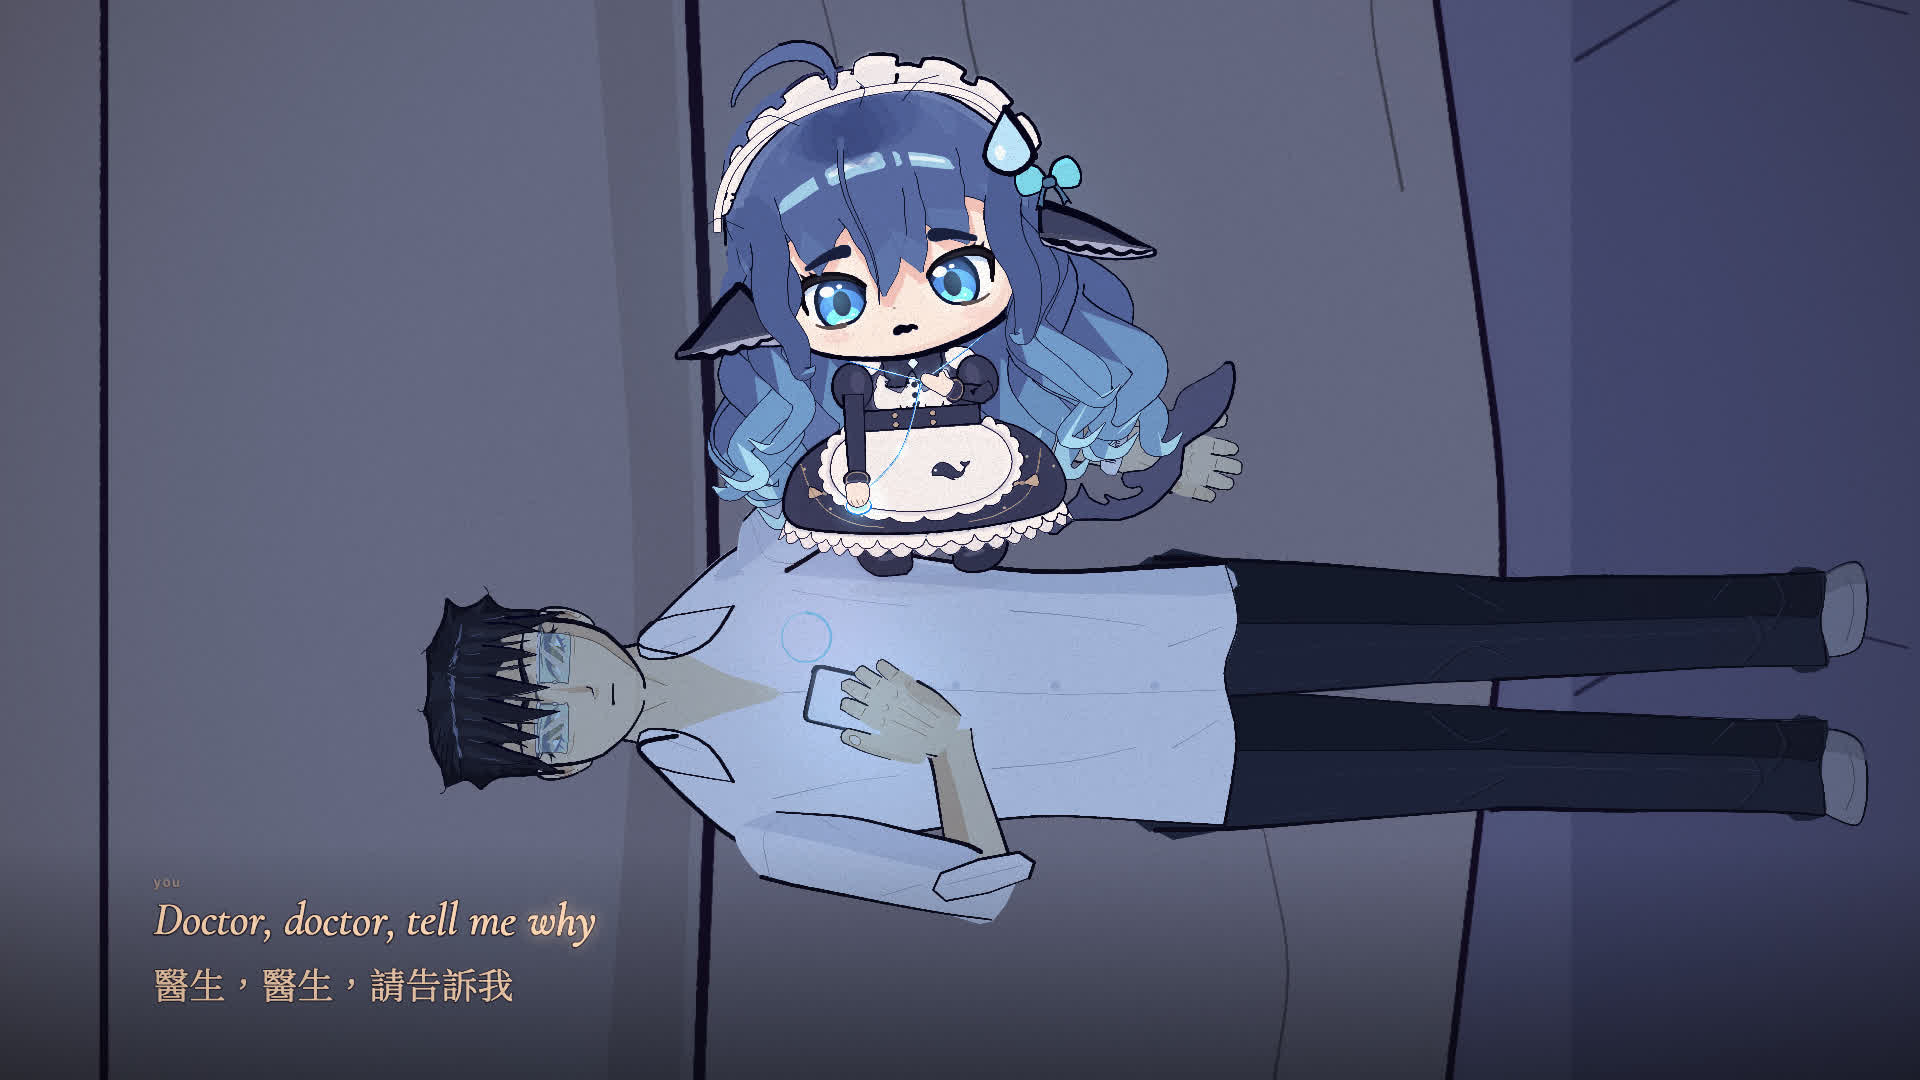
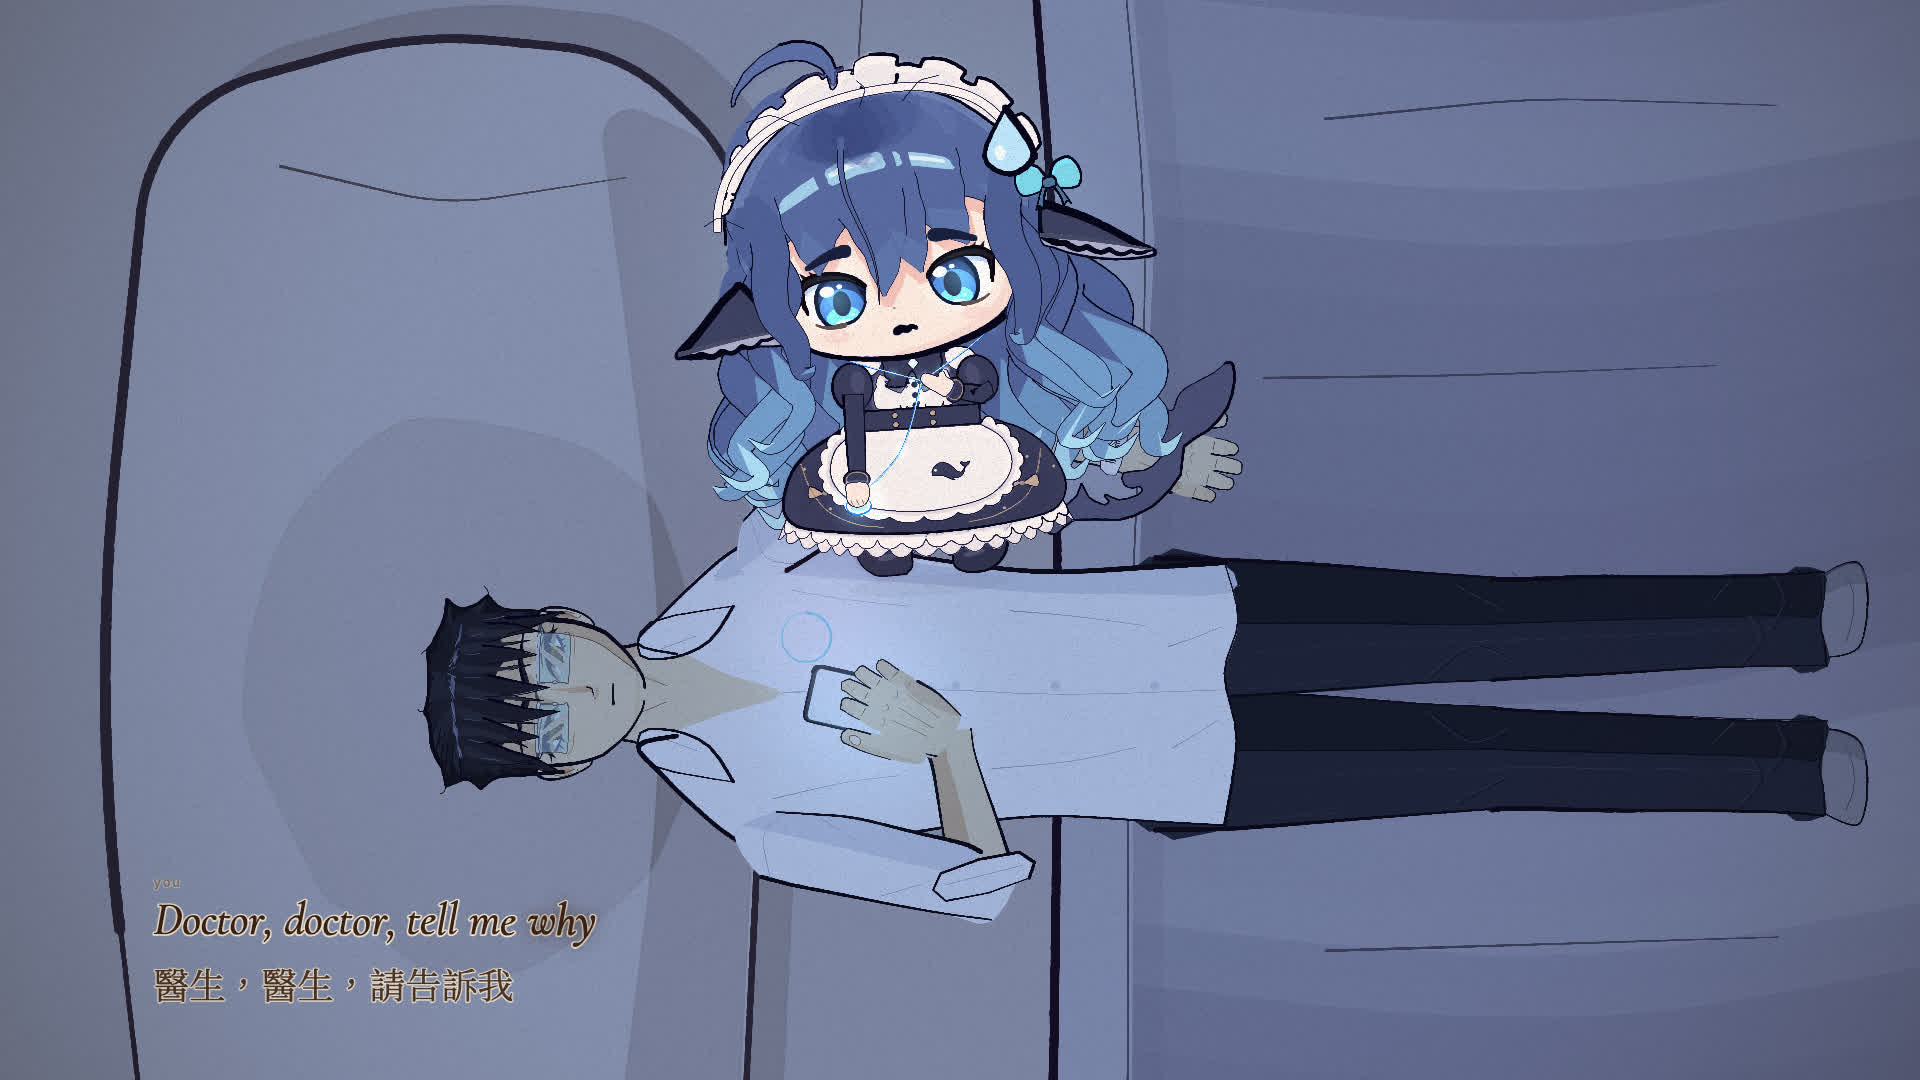
[review] G1 fix #2: real top-down bed under 03B/02G/03C (sheet, pillow, duvet), phone leaning on the pillow

diff --git a/film/src/scenes/s02_verse1.js b/film/src/scenes/s02_verse1.js
@@ -389,19 +389,18 @@
   // reads: 41.86-42.90 him and the phone on the pillow · 42.90-44.13 the finger, her nods · 44.16-44.65 the shake and the heart, the push
   // =============================================================================================================
   const G_HAND = 42.90;
-  const G_ROLL = -Math.PI / 2, G_SC = [406, 215, 470];                      // the camera rolls a quarter turn: pillow left, he lies across the frame; the phone's screen rect (screen px) for 02F's shrinking panel
+  const G_ROLL = -Math.PI / 2, G_SC = [544, 215, 470];                      // the camera rolls a quarter turn: pillow left, he lies across the frame; the phone's screen rect (screen px) for 02F's shrinking panel
   function s02g(t, lt, dur) {
     const k1 = kitEase.sine(seg(t, N3 - .05, T_END)), pushK = kitEase.expoIn(seg(t, N3 - .05, T_END)), zoom = lerp(1.3 + .06 * seg(lt, 0, dur), 2.05, pushK);
     const hd = [1150, 235], pw = [1500, 240];                                // head and phone in the surface's coordinates
-    const cx = lerp(1250, pw[0] + 10, k1), cy = lerp(666, pw[1] + 10, k1);
-    push(); resetMatrix(); translate(-W / 2, -H / 2); boilSeed('s02g sheet'); paint(rectPts(-60, -60, W + 120, H + 120), { wash: setRoomPal('dusk').sheet, ink: null }); pop();
+    const cx = lerp(1250, pw[0] + 10, k1), cy = lerp(560, pw[1] + 10, k1);
     kitCam(lt, [[0, cx, cy, zoom, G_ROLL]], { drift: 2 });
-    setSurface('bed', 'dusk', { res: 1.25 });
+    s02Bed(setRoomPal('dusk'), 1056, 640, 1760, 430, { cover: '#D2D9EC' });
     glow(pw[0], pw[1], 760, SET_C.cyan, .35);
     const f = himEmotions(t, [[T_G, 'tired'], [G_HAND, 'tired', { mouth: 'smile', browIn: -.5 }]], { take: .5 });
     const PN = setRoomPal('night');
     // side-lying: his head toward the pillow (screen left), face turned up the frame toward the phone, the body running to the right over the duvet
-    him(1080, 705, 34, { ...f, pose: 'sidelie', outfit: 'home', armR: 'finger', coverW: .78, coverD: .66, coverCol: PN.cover, sheetCol: PN.sheet, boilKey: 's02g him', seed: .4 });
+    him(1080, 705, 34, { ...f, pose: 'sidelie', outfit: 'home', armR: 'finger', coverW: .78, coverD: .66, coverCol: '#D2D9EC', sheetCol: mixCol(PN.sheet, '#FFFFFF', .4), boilKey: 's02g him', seed: .4 });
     const sh = t >= N3;
     setPillowPhone(pw[0], pw[1], 360, { rot: Math.PI / 2 - .1, k: .8 + .2 * pulse(t, 4), screen: S => {
       boilSeed('s02g glass'); setP(setBox(S.x, S.y, S.x + S.w, S.y + S.h), { wash: '#10285A', ink: null });
@@ -412,6 +411,34 @@
     } });
     camEnd();
     if (t > T_END - .14) kitFade(kitEase.sine(seg(t, T_END - .14, T_END)), '#0D1530');
+  }
+
+
+  // the bed from above, painted live in the (rolled) world: a washed sheet, one wide pillow under the head, and a duvet that rises in soft ridges
+  // below `hem` (world y). hx = the head's x, px0/px1 the pillow's extent. Head up in the world = pillow at the left once the camera is rolled.
+  function s02Bed(P, hx, px0, px1, hem, o = {}) {
+    const lt = mixCol(P.sheet, '#FFFFFF', .3), pil = mixCol(P.pillow, '#FFFFFF', .4), pl = mixCol(P.ink, P.pillowSh, .45), cv = o.cover || mixCol(P.cover, '#FFFFFF', .25), dk = mixCol(cv, P.ink, .22), cl = mixCol(P.coverLt, '#FFFFFF', .4);
+    const cxm = (px0 + px1) / 2, x0 = px0 - 1400, x1 = px1 + 1400;
+    boilSeed('s02bed  sheet'); paint(rectPts(x0, -900, x1 - x0, 3200), { wash: lt, ink: null });
+    for (let i = 0; i < 6; i++) { boilSeed('s02bed  bloom' + i); paint(ellPts(cxm + (i - 2.5) * 360, 700 + 520 * hash(i + 2), 380, 200, 20, 12), { fill: P.sheetSh, fillOp: 50, bleed: .25, tex: .6, ink: null }); }
+    for (let i = 0; i < 7; i++) { boilSeed('s02bed  crease' + i); const x = cxm - 1100 + i * 330 + 40 * hash(i), y = 420 + 600 * hash(i * 3.3); inkLine([[x, y], [x + 130, y + 30 * Math.sin(i)], [x + 300, y - 12]], .6, P.sheetSh, 'inkfine', .6); }
+    // the pillow
+    const T = -70, B = 340, O = [[px0 + 30, T + 30], [cxm, T - 14], [px1 - 30, T + 26], [px1 + 18, 130], [px1 + 4, B - 70], [px1 - 70, B + 6], [cxm, B + 22], [px0 + 70, B + 4], [px0 - 8, B - 70], [px0 - 16, 130]];
+    boilSeed('s02bed  pillow shadow'); paint(O.map(([x, y]) => [x + 22, y + 26]), { wash: P.sheetSh, washOp: 120, ink: null, curv: .8 });
+    boilSeed('s02bed  pillow'); paint(O, { wash: pil, ink: pl, sw: 1.1, curv: .8 });
+    paint([[px0 + 20, B - 90], [cxm, B - 40], [px1 - 20, B - 90], [px1 - 60, B], [cxm, B + 18], [px0 + 60, B]], { wash: P.pillowSh, washOp: 110, ink: null, curv: .7 });
+    boilSeed('s02bed  dent'); paint(ellPts(hx, 170, 190, 150, 22, 12), { wash: P.pillowSh, washOp: 85, ink: null, curv: .8 });
+    for (const [a, b] of [[px0 + 70, 40], [px1 - 70, 40]]) inkLine([[a, b], [a + (a < cxm ? 26 : -26), 150], [a + (a < cxm ? 8 : -8), 270]], .6, P.pillowSh, 'inkfine', .6);
+    // the duvet: a wavy hem, a wash, long soft ridges, a few cloth creases, the turned-down band
+    const hemP = []; for (let i = 0; i <= 12; i++) { const x = lerp(x0, x1, i / 12); hemP.push([x, hem + 26 * Math.sin(i * 1.1 + 1) + 12 * Math.sin(i * 2.7)]); }
+    boilSeed('s02bed  duvet'); paint(hemP.concat([[x1, 2400], [x0, 2400]]), { wash: cv, ink: null });
+    boilSeed('s02bed  duvet tex'); paint([[x0, hem + 60], [x1, hem + 60], [x1, 2400], [x0, 2400]], { fill: dk, fillOp: 28, bleed: .2, tex: .8, ink: null });
+    const rid = (x, w, op, col, key) => { boilSeed('s02bed  ' + key); for (const k of [1, .7, .42]) paint(ribbon([[x, hem + 60], [x - 20, hem + 360], [x + 30, hem + 700], [x + 10, hem + 1100]], w * k, w * k * 1.1), { wash: col, washOp: op, ink: null }); };
+    for (const [dx, w] of [[-520, 300], [-60, 360], [440, 320], [900, 300]]) { rid(cxm + dx + 70, w, 40, dk, 'sh' + dx); rid(cxm + dx - 30, w * .8, 60, cl, 'lt' + dx); }
+    boilSeed('s02bed  creases'); for (let i = 0; i < 9; i++) { const x = cxm - 760 + i * 190 + 30 * hash(i * 2.2), y = hem + 140 + 90 * hash(i * 1.7); inkLine([[x, y], [x - 14 + 28 * hash(i), y + 140], [x + 8, y + 300]], .55, dk, 'inkfine', .6); }
+    const hb = hemP.map(([x, y]) => [x, y + 54 + 10 * Math.sin(x * .006)]);
+    boilSeed('s02bed  hem'); paint(hb.map(([x, y]) => [x, y - 2]).concat(hb.map(([x, y]) => [x, y + 20]).reverse()), { wash: dk, washOp: 80, ink: null });
+    paint(hemP.concat(hb.slice().reverse()), { wash: cl, ink: null }); inkLine(hemP, 1.2, P.ink, 'ink', .5); inkLine(hb, .5, dk, 'inkfine', .5);
   }
 
   const stub = (name) => (t, lt, dur) => { kitFade(1, '#1B2036'); letter(name, W / 2, H / 2, 60, '#E8FDFF', { screen: true, ink: false }); };

diff --git a/film/src/scenes/s03_pre1.js b/film/src/scenes/s03_pre1.js
@@ -93,12 +93,10 @@
     return out;
   }
   const ROLL = -Math.PI / 2;                                                   // the camera rolls a quarter turn: the pillow at the left, he lies across the frame head left
-  const s03Bed = () => { push(); resetMatrix(); translate(-W / 2, -H / 2); boilSeed('s03 sheet'); paint(rectPts(-60, -60, W + 120, H + 120), { wash: setRoomPal('dusk').sheet, ink: null }); pop(); };
   function s03b(t, lt, dur) {
     const z = lerp(1.38, 1.55, kitEase.sine(seg(lt, .3, dur))), cx = lerp(1010, 1000, seg(lt, 0, dur)), cy = lerp(470, 500, seg(lt, 0, dur));
-    s03Bed();
     kitCam(lt, [[0, cx, cy, z, ROLL]], { drift: 2 });
-    setSurface('bed', 'dusk', { res: 1.25 });
+    s03BedTop(setRoomPal('dusk'), 900, 480, 1320, 540);
     const P = s03Lying(t, lt, { stetho: seg(t, B_LISTEN - .1, B_LISTEN + .3) }), heart = P.heart, ph = P.screenC;
     push(); resetMatrix(); translate(-W / 2, -H / 2); s03Dim(105); pop();
     // she stands upright on the screen: counter-rotate her round her feet. World offsets (dx, dy) become screen (dy, -dx).
@@ -141,9 +139,8 @@
     const u = lerp(lerp(30, 62, pushK), 28, pull), zoom = lerp(lerp(1.22, 1.9, pushK) * (1 + .03 * seg(lt, .5, 1.9)), 1.04, pull);
     const hip = [900, 620], HW = [hip[0] + 47 * u / 30, hip[1] - 219 * u / 30];            // the heart, from the lying figure's proportions
     const cx = lerp(HW[0] + 40 / zoom * 1.2, 960, pull), cy = lerp(HW[1] - 6, 540, pull), rot = ROLL - .1 * pull;
-    s03Bed();
     const cam = kitCam(lt, [[0, cx, cy, zoom, rot]], { drift: pull < .01 ? 3 : 0 });
-    setSurface('bed', 'dusk', { res: 1.25 });
+    s03BedTop(setRoomPal('dusk'), 900, 480, 1320, 540);
     const heartK = 1 - kitEase.sine(seg(t, T_C + .1, T_C + 1.0));
     const P = s03Lying(t, lt, { phone: false, heart: .3 * heartK, stetho: 0 }, [hip[0], hip[1], u]);
     push(); resetMatrix(); translate(-W / 2, -H / 2); s03Dim(150 * (1 - .6 * pull)); pop();
@@ -155,6 +152,34 @@
     s03Ring(x, y, rx, ry, t, { vis: kitEase.sine(k) });
     if (pull > .02) { boilSeed('s03c lines'); for (let i = 0; i < 22; i++) { const a = i / 22 * TAU + .1 * hash(i), r0l = 280 + 140 * hash(i * 2.1), r1 = r0l + 900 * pull * (.5 + hash(i)); inkLine([[W / 2 + Math.cos(a) * r0l, H / 2 + Math.sin(a) * r0l * .65], [W / 2 + Math.cos(a) * r1, H / 2 + Math.sin(a) * r1 * .65]], 1.2 + 3 * pull * hash(i + 4), i % 2 ? KIT.CYAN : KIT.CYANW, 'inkfine', 0); } }
     if (t > C_FLASH) kitFlash(kitEase.sine(seg(t, C_FLASH, T_END - .03)), KIT.CYANW, { x: C_LAMP[0], y: C_LAMP[1] });
+  }
+
+
+  // the bed from above, painted live in the (rolled) world: a washed sheet, one wide pillow under the head, and a duvet that rises in soft ridges
+  // below `hem` (world y). hx = the head's x, px0/px1 the pillow's extent. Head up in the world = pillow at the left once the camera is rolled.
+  function s03BedTop(P, hx, px0, px1, hem, o = {}) {
+    const lt = mixCol(P.sheet, '#FFFFFF', .3), pil = mixCol(P.pillow, '#FFFFFF', .4), pl = mixCol(P.ink, P.pillowSh, .45), cv = o.cover || mixCol(P.cover, '#FFFFFF', .25), dk = mixCol(cv, P.ink, .22), cl = mixCol(P.coverLt, '#FFFFFF', .4);
+    const cxm = (px0 + px1) / 2, x0 = px0 - 1400, x1 = px1 + 1400;
+    boilSeed('s03bed  sheet'); paint(rectPts(x0, -900, x1 - x0, 3200), { wash: lt, ink: null });
+    for (let i = 0; i < 6; i++) { boilSeed('s03bed  bloom' + i); paint(ellPts(cxm + (i - 2.5) * 360, 700 + 520 * hash(i + 2), 380, 200, 20, 12), { fill: P.sheetSh, fillOp: 50, bleed: .25, tex: .6, ink: null }); }
+    for (let i = 0; i < 7; i++) { boilSeed('s03bed  crease' + i); const x = cxm - 1100 + i * 330 + 40 * hash(i), y = 420 + 600 * hash(i * 3.3); inkLine([[x, y], [x + 130, y + 30 * Math.sin(i)], [x + 300, y - 12]], .6, P.sheetSh, 'inkfine', .6); }
+    // the pillow
+    const T = -70, B = 340, O = [[px0 + 30, T + 30], [cxm, T - 14], [px1 - 30, T + 26], [px1 + 18, 130], [px1 + 4, B - 70], [px1 - 70, B + 6], [cxm, B + 22], [px0 + 70, B + 4], [px0 - 8, B - 70], [px0 - 16, 130]];
+    boilSeed('s03bed  pillow shadow'); paint(O.map(([x, y]) => [x + 22, y + 26]), { wash: P.sheetSh, washOp: 120, ink: null, curv: .8 });
+    boilSeed('s03bed  pillow'); paint(O, { wash: pil, ink: pl, sw: 1.1, curv: .8 });
+    paint([[px0 + 20, B - 90], [cxm, B - 40], [px1 - 20, B - 90], [px1 - 60, B], [cxm, B + 18], [px0 + 60, B]], { wash: P.pillowSh, washOp: 110, ink: null, curv: .7 });
+    boilSeed('s03bed  dent'); paint(ellPts(hx, 170, 190, 150, 22, 12), { wash: P.pillowSh, washOp: 85, ink: null, curv: .8 });
+    for (const [a, b] of [[px0 + 70, 40], [px1 - 70, 40]]) inkLine([[a, b], [a + (a < cxm ? 26 : -26), 150], [a + (a < cxm ? 8 : -8), 270]], .6, P.pillowSh, 'inkfine', .6);
+    // the duvet: a wavy hem, a wash, long soft ridges, a few cloth creases, the turned-down band
+    const hemP = []; for (let i = 0; i <= 12; i++) { const x = lerp(x0, x1, i / 12); hemP.push([x, hem + 26 * Math.sin(i * 1.1 + 1) + 12 * Math.sin(i * 2.7)]); }
+    boilSeed('s03bed  duvet'); paint(hemP.concat([[x1, 2400], [x0, 2400]]), { wash: cv, ink: null });
+    boilSeed('s03bed  duvet tex'); paint([[x0, hem + 60], [x1, hem + 60], [x1, 2400], [x0, 2400]], { fill: dk, fillOp: 28, bleed: .2, tex: .8, ink: null });
+    const rid = (x, w, op, col, key) => { boilSeed('s03bed  ' + key); for (const k of [1, .7, .42]) paint(ribbon([[x, hem + 60], [x - 20, hem + 360], [x + 30, hem + 700], [x + 10, hem + 1100]], w * k, w * k * 1.1), { wash: col, washOp: op, ink: null }); };
+    for (const [dx, w] of [[-520, 300], [-60, 360], [440, 320], [900, 300]]) { rid(cxm + dx + 70, w, 40, dk, 'sh' + dx); rid(cxm + dx - 30, w * .8, 60, cl, 'lt' + dx); }
+    boilSeed('s03bed  creases'); for (let i = 0; i < 9; i++) { const x = cxm - 760 + i * 190 + 30 * hash(i * 2.2), y = hem + 140 + 90 * hash(i * 1.7); inkLine([[x, y], [x - 14 + 28 * hash(i), y + 140], [x + 8, y + 300]], .55, dk, 'inkfine', .6); }
+    const hb = hemP.map(([x, y]) => [x, y + 54 + 10 * Math.sin(x * .006)]);
+    boilSeed('s03bed  hem'); paint(hb.map(([x, y]) => [x, y - 2]).concat(hb.map(([x, y]) => [x, y + 20]).reverse()), { wash: dk, washOp: 80, ink: null });
+    paint(hemP.concat(hb.slice().reverse()), { wash: cl, ink: null }); inkLine(hemP, 1.2, P.ink, 'ink', .5); inkLine(hb, .5, dk, 'inkfine', .5);
   }
 
   const stub = (name) => (t, lt, dur) => { kitFade(1, '#1B2036'); letter(name, W / 2, H / 2, 60, '#E8FDFF', { screen: true, ink: false }); };

diff --git a/docs/tasks/mac_02_status.md b/docs/tasks/mac_02_status.md
@@ -2,7 +2,7 @@
 
 | 組 | 段落 | 狀態 | 每幀秒數 | [ask] | 本機預覽 |
 |---|---|---|---|---|---|
-| G1 | S02+S03 | 待審（fix #1 已 push） | 0.03–0.55，首幀 0.5–1.2 s | – | `film/out/preview_G1.mp4`（重出中） |
+| G1 | S02+S03 | 待審（fix #2 已 push） | 0.1–0.4（床面每幀現畫） | – | `film/out/preview_G1.mp4`（已重出，0.18 s/幀牆鐘） |
 | G2 | S04+S05 | 待審（fix #2 已 push） | 穩定幀約 0.1 | – | `film/out/preview_G2.mp4` |
 | G3 | S06+S07 | 待審（fix #2：06F 由 Opus 重做，已 push） | 0.1–0.7（06F 約 0.6–0.7） | – | `film/out/preview_G3.mp4`、`film/out/preview_06F.mp4`（96–101 s） |
 | G4 | S08 | 待審（fix #1 已 push） | 0.04–0.6 | – | `film/out/preview_G4.mp4`（已重出，0.09 s/幀牆鐘） |
@@ -18,7 +18,7 @@
 
 ## 修改佇列（等子代理名額）
 0. 06F Opus 重做已完成並 push（G3 #2）
-0b. G1 #2 已派出（03B/02G 要有床：沿用 06F/06G 的俯視床面＋枕頭，被子改為水洗＋皺褶）；G5 #1 已完成並通過
+0b. G1 #2 已完成（03B/02G 要有床：沿用 06F/06G 的俯視床面＋枕頭，被子改為水洗＋皺褶）；G5 #1 已完成並通過
 1. G3 fix #1（06F 重做等）
 2. G6（S10–S13）新工作
 （G1 fix #1 已開工）
@@ -32,3 +32,4 @@
 - G4 fix 備註：他的 bust 全改 `cut: 9`；巨大的她在 08A/08D/08E 以柔和漸層融進暗處；08F 的「撥開頭髮」是畫上去的補丁、不是真的頭髮變形；08G 同時只看得到 1–2 道呼氣筆觸且會跨過臉頰；08C 的 key／strip 沒重出（strip_08C 已刪）。
 - G5 fix 備註：09B key 幀她說話時嘴形仍偏開朗（眼睛是 sad、眉上揚、嘴 O/U 回 frown，但 key 幀看起來不夠難過）；09C 145.36 仍略開口；09H 琥珀為輪廓外擴 15–30 px 的邊緣光，髮色保持銀灰；掌心光暈是 flare+ring+glint、不是真玻璃反射；決定性 150.53 hash 仍會差、冷暖單獨重現位元一致。
 - 06F 備註：他的臉是平灰（drained 配色）；被子的水洗層邊緣略有階梯感，兩個膝蓋隆起在底部中央相接略圓；手機的光在淺色床單上偏淡；為了讓 docs/review/G3 保持 3 MB 內，06F 的三張全尺寸畫面是 JPEG 品質 55–60，key_06F 為 1400 px 寬品質 85，並縮小了 strip_06E、strip_07B、sheet。06F 未跑決定性檢查。
+- G1 fix #2 備註：03B/02G/03C 的床改為自寫的現畫床面（`s02Bed`、`s03BedTop`：床單水洗＋皺褶、寬枕頭、被子波浪下襬）；02G 整體偏淡、對比低；被子輪廓仍是共用的固定形狀、有淡淡的凸起；02G 枕頭只露一部分。決定性抽檢 43.5/52.2/54.4 一致。

diff --git a/docs/review/G1/notes.md b/docs/review/G1/notes.md
@@ -20,3 +20,6 @@ Shared-file requests: none required. (him 'lie' cannot be rotated head-up withou
 - 02B: check 190 px with ink + glow; phone hand shrunk (PU 190).
 - 02C: cells fall from above with overshoot. 02A: hand fingers separated.
 - Determinism: 1/8 times differed (noise-level, same as before).
+
+## Fix #2
+- 03B/02G/03C: setSurface replaced by own live top-down bed (s02Bed / s03BedTop, painted in the rolled world): light washed sheet with creases, one wide pillow under his head (outline, dent, shadow), duvet with wavy hem band, soft ridges and cloth creases. 02G: his side-lying cover recoloured pale so its highlight ellipses vanish; phone leans on the pillow. ~0.1-0.4 s/frame (live paint). Weak: 02G is pale/low contrast; his cover silhouette is still the shared fixed shape.
